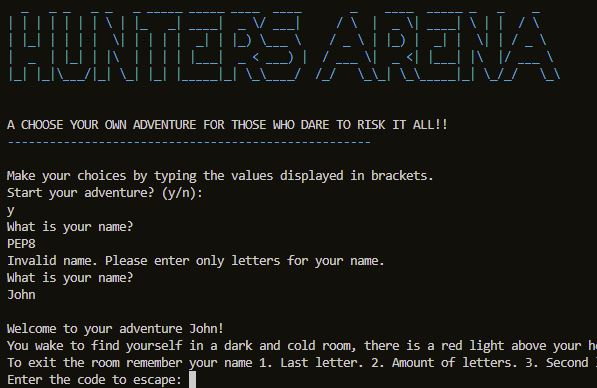
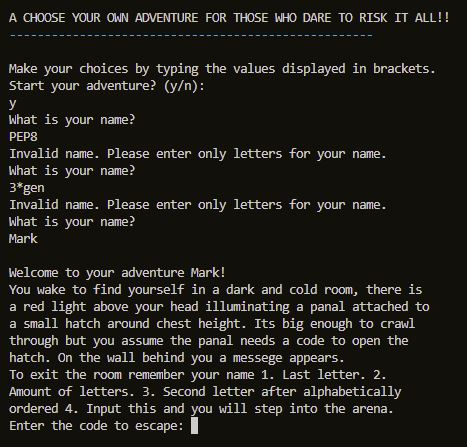
Add improved images to readme content and update content

Changed region(s): [[0.0, 0.0309, 1.0, 1.0]]

diff --git a/run.py b/run.py
@@ -4,16 +4,13 @@ those willing to take on a harrowing challenge.
 Author: Mark Young
 '''
 
-import gspread
 import time
 import pyfiglet
 import os
 import colorama
 import json
 import textwrap
-import sys
 from colorama import Fore
-from google.oauth2.service_account import Credentials
 colorama.init(autoreset=True)
 
 
@@ -28,9 +25,11 @@ cells = [
     'H1', 'H2', 'H3', 'H4', 'H5', 'H6', 'H7', 'H8'
 ]
 
+
 def wrap_and_print(text):
     for line in textwrap.wrap(text, width=60):
         print(line)
+
 
 def load_adventure_data():
     try:
@@ -96,6 +95,7 @@ def start_adventure():
     Begins the adventure story to the point of escape.
     The user has three attempts to correctly identify code.
     '''
+    clear_screen()
     print("\nWelcome to your adventure {}!".format(player_name))
     time.sleep(1)
     wrap_and_print(cell_values['A1'])

diff --git a/README.md b/README.md
@@ -1,4 +1,4 @@
-# Hunters Arena: A choose your own adventure
+# Hunters Arena: A choose your own adventure text based game
 
 ![Demo](.devcontainer/readme-content/images/huntersarena.jpg)
 
@@ -44,6 +44,7 @@
     - [Heroku](#heroku)
   - [Credits](#credits)
      - [Acknowledgements](#acknowledgements)
+  - [Project Summary](#project-summary)
 
 ---
 
@@ -56,6 +57,8 @@
 ## Brief
 
 ### **H**unters **A**rena
+
+![Hunters Arena](.devcontainer/readme-content/images/huntersarenaheading.jpg)
 
 The aim of this website is to offer an engaging adventure game with multiple paths and scenarios. 
 The end product should meet the following criteria:
@@ -70,7 +73,7 @@ The end product should meet the following criteria:
 ## UX - User Experience Design
 
 ### How To Play
-Hunters Arena is a choose your own adventure game. You can read more about the general theme on [Wikipedia](https://en.wikipedia.org/wiki/Text-based_game). This game is based on "The Running Man" theme by Stephen King only in this case if the protagonist survives they win 10 million. The player enters their name in the console, and they are transported to a holding cell deep inside an arena. They must escape the holding cell to begin their ordeal. The code is based on the name they entered previously. The user has three attempts to enter the code correctly otherwise they get locked in the holding cell and must stat the game again. If they do guess correctly they escape the cell to a new area which they can explore. The user has many paths to follow, a large percent ending in death but they must escape through the exit of the arena to win the game. Hunters similar to the general public in stephen king book are hostile and ready to kill, they are not to be trusted.  
+Hunters Arena is a choose your own adventure game. You can read more about the general theme on [Wikipedia](https://en.wikipedia.org/wiki/Text-based_game). This game is based on "The Running Man" theme by Stephen King only in this case if the protagonist survives they win 10 million. The player enters their name in the console, and they are transported to a holding cell deep inside an arena. They must escape the holding cell to begin their challenging ordeal. The code to escape is based on the name they entered. The user has three attempts to enter the code correctly otherwise they get locked in the holding cell and must start the game again. If they do guess correctly they escape the holding cell to a new area which they can explore. The user has many paths to follow, a large percent ending in death but they must escape through the exit of the arena to win the game. Hunters similar to the general public in the Stephen King book are hostile and ready to kill, they are not to be trusted.  
 
 There are different ways to win and lose, depending on the player's memory, luck, and skills.
 
@@ -104,6 +107,7 @@ I'm planning to create a "Choose Your Own Adventure" game, inspired by the books
 
 The overall story has a similar theme to Stephen Kings novel "The Running Man".
 
+![Running Man](.devcontainer/readme-content/images/runningman.jpg)
 
 ### Story Flow
 
@@ -111,12 +115,14 @@ To create and maintain the story path lines the online application Lucid chart w
 Lucidchart is an online diagramming and visual communication tool that allows users to create various types of diagrams and visual representations. 
 It's widely used for a range of purposes, from business process modeling to flowcharts, wireframes, network diagrams, org charts, and more.
 
+To organise the story lines I named each paragraph after the event in the scenario then indicated what cell in the spreadsheet it is located. (This method worked perfectly until i discovered the google API read request error)
+
 ![Lucid Chart](.devcontainer/readme-content/images/lucidchart.jpg)
 
 ---
 
 ### Python Logic
-![Python Logic](.devcontainer/readme-content/images/pythonlogic.jpg)
+
 Throughout this program the while loop structure was used to generate the users personal story.
 In Python, a while loop is a control flow structure that allows you to repeatedly execute a block of code as long as a specified condition remains true. 
 Here's the basic structure of a while loop:
@@ -133,6 +139,10 @@ The condition becomes False before the loop starts (e.g., the condition is initi
 The condition becomes False during the loop's execution. This can occur if some code within the loop modifies variables or conditions in a way that eventually makes the original condition False.
 It's essential to ensure that the condition inside a while loop eventually becomes False to prevent an infinite loop. Infinite loops can consume all available CPU resources and crash the program or system.
 
+
+![Python Logic](.devcontainer/readme-content/images/pythonlogic.jpg)
+
+
 ---
 ## Features
 
@@ -145,6 +155,12 @@ It's essential to ensure that the condition inside a while loop eventually becom
 
   I replaced this feature by creating a new .JSON file containing the information in the spreadsheet then created a function in the run.py to draw from the new .JSON file.
  
+ ![Google Spreadsheet](.devcontainer/readme-content/images/googlesheets.jpg)
+
+* Here is the code I wrote to access the google sheet above so the story lines could be accessed from specific cells in the sheet. Unfortunately the 429 error became an issue when multiple people ran the program or multiple instances of the program was ran at the same time like when using the iamresponsive online application.
+
+ ![Origional Spreadsheet Code](.devcontainer/readme-content/images/spreadsheetcode.jpg)
+ 
 
 ### Existing Features
 
@@ -154,31 +170,19 @@ It's essential to ensure that the condition inside a while loop eventually becom
 
 
 
-* The program asks the user to input a valid name. If the name is not valid the program returns - "Invalid name. Please enter only letters for your name".
+* The program asks the user to input a valid name. 
+  - If the name is not valid the program returns - "Invalid name. Please enter only letters for your name".
+  - If the name has anything other than letters the program returns - "Invalid name. Please enter only letters for your name".
+  - If the name has all valid letters the programs begins the quest.
+
   
   ![Valid Name Input](.devcontainer/readme-content/images/lettersonly2.jpg)
 
 
 
-* Once a valid name has been input to the console the user is introduced to the first scenario where they must escape a holding cell of an arena.
-  If the wrong code is inserted 3 times then the user is locked in and asked whether they wish to try again.
+  * This escape code scenario was concocted to use python functions such as 
 
-  ![Wrong Code](.devcontainer/readme-content/images/wrongcode.jpg)
-
-
-
-* Once a valid code is input to the console the program returns Congratulations you have escaped the holding cell.
-
-  ![Escape Code](.devcontainer/readme-content/images/escapecode.jpg)
-
-  To exit the room remember your name 
-    1. Last letter. 
-    2. Amount of letters. 
-    3. Second letter after alphabetically ordered 
-    4. Input this and you will step into the arena.
-
-
-  This escape code scenario was concocted to use python functions such as 
+    ![Escape Code](.devcontainer/readme-content/images/escapecode.jpg)
 
     1. name = name.lower(): Converts the input name to lowercase. This ensures that the case (uppercase or lowercase) of the name doesn't affect the resulting escape code.
 
@@ -197,6 +201,22 @@ It's essential to ensure that the condition inside a while loop eventually becom
 
     The final escape_code is a unique code that depends on the user's input name, making it specific to each user. 
     This code is then used within the program, allowing users to enter it to progress in the adventure game, as seen in the start_adventure function.
+
+    ![Wrong Code](.devcontainer/readme-content/images/wrongcode.jpg)
+
+  * Once a valid name has been input to the console the user is introduced to the first scenario where they must escape a holding cell of an arena.
+    If the wrong code is inserted 3 times then the user is locked in and asked whether they wish to try again.
+       - In this instance I use my own name as an example: Mark
+          By following the instructions given the code will be
+          1. Last letter = k
+          2. Number of letters = 4
+          3. Second letter after alphabetically ordered = k
+          4. Enter correct code k4k to excape holding cell.
+
+          - Anything other than the correct values returns an incorrect code warning and a chance to retry.
+          - The user gets three tries before they must start again.
+   * Once a valid code is input to the console the program returns Congratulations you have escaped the holding cell.
+
 
 ### Future Features
 
@@ -273,6 +293,7 @@ Possible Solutions:
 * Issue: Invalid input return repetition
 
     Explanation: There were two instances of the same variable, so when one instance was called the code returned invalid.
+    
     Solution: Change the variable name of one. There are three scenarios where the user had a choice to go for a weapon 
     or to hide so using the letters wh or hw in the variable choice_hw a third option needed to be created and i chose choice_nh.
 
@@ -285,8 +306,11 @@ Possible Solutions:
 
 * Issue: I encountered an issue with Google API requests that led to Error 429. This error typically occurs when our application sends too many requests to the Google API in a short amount of time, exceeding the rate limits imposed by Google.
 
-    Explanation: To address the Error 429 issue, I implemented a workaround. I created a new .JSON file that contains all the information from the Google spreadsheet as a list. Additionally, I introduced a function in the main run.py file that connects this new .JSON file to the application. This approach removed the need for the Google API, and so no encountering of the Error 429. Instead of fetching data from the Google Sheets API each time it's needed, the application relies on the locally stored .JSON file.
-            
+    Explanation: A 429 error typically indicates that you've exceeded the rate limit for accessing the Google Sheets API. Google enforces rate limits to prevent abuse and ensure fair usage of their services.
+
+    Attempted Solution: Implement Rate Limiting: To prevent your application from making too many requests in a short period, you can implement rate limiting in your code. This involves adding delays between requests to ensure you stay within the allowed rate limits.
+
+    Solution: To address the Error 429 issue, I implemented a workaround. I created a new .JSON file that contains all the information from the Google spreadsheet as a list. Additionally, I introduced a function in the main run.py file that connects this new .JSON file to the application. This approach removed the need for the Google API, and so no encountering of the Error 429. Instead of fetching data from the Google Sheets API each time it's needed, the application relies on the locally stored .JSON file. The program ran much faster and had no re-occurring errors.      
 
 ### Validator Testing
 
@@ -309,8 +333,10 @@ It aims to provide just the tools a developer needs for a quick code-build-debug
 
 ### Google Sheets
 
-The need for this program was removed but i have included it to show case my original intention of using Google API as shown in the Love Sandwiches Sample Project.
-https://docs.google.com/spreadsheets/d/1cJHaqoYuqxiKFB8QcVqwG2K4haJS-2Zf4yPUj7eF3QE/edit#gid=0
+(Removed feature but left in to show case intention)
+
+The need for this program was removed but I have included it to show case my original intention of using Google API as shown in the Love Sandwiches Sample Project.
+[Adventure Project 3](https://docs.google.com/spreadsheets/d/1cJHaqoYuqxiKFB8QcVqwG2K4haJS-2Zf4yPUj7eF3QE/edit#gid=0)
 
 [Google Sheets API](https://console.cloud.google.com/marketplace/browse?filter=partner:Google%20Enterprise%20API&project=adventureproject3)
 The Google Sheets API is a RESTful interface that lets you read and modify a spreadsheet's data. The most common uses of this API include the following tasks:
@@ -358,3 +384,12 @@ This project was deployed using Code Institute's mock terminal for Heroku:
 
 ## Credits
 
+I used a number of different websites and did a lot of searching throughout the project. I really tried to understand the logic that I was finding and implement in my own code. I may have lost a lot of time here, but I wanted to understand and learn. I followed the love sandwiches project closely, and used as much of the thought and layout of this project. I used well known coding sites like Stackoverflow and W3Schools. I would have really struggled without these reference points. I used Lucid chart to organise the storylines and looked at many examples of other projects display on slack to see good examples of a readme file.
+
+### Acknowledgements
+
+
+## Project Summary
+I was really looking forward to this section of the course and the project. I found Javascript very difficult and i had heard that python would be simpler. I found it more challenging but i enjoyed it more than javaScript.
+As for the project, I wanted to remain orignal and come up with an idea of my own and not rely on suggested projects where there was a lot of code and help provided. I hope this come across in my work and that I am recognised for that. My code is not perfect, but I much prefer working through this with as little help as possible - not becuase I think that seeking help is wrong and can be quicker...but I really want to learn and understand, which definitely is the case with this project.
+I think the horoscope is a good idea, and is quite useful too, as this is something that people are interested in and something that has real life uses.
